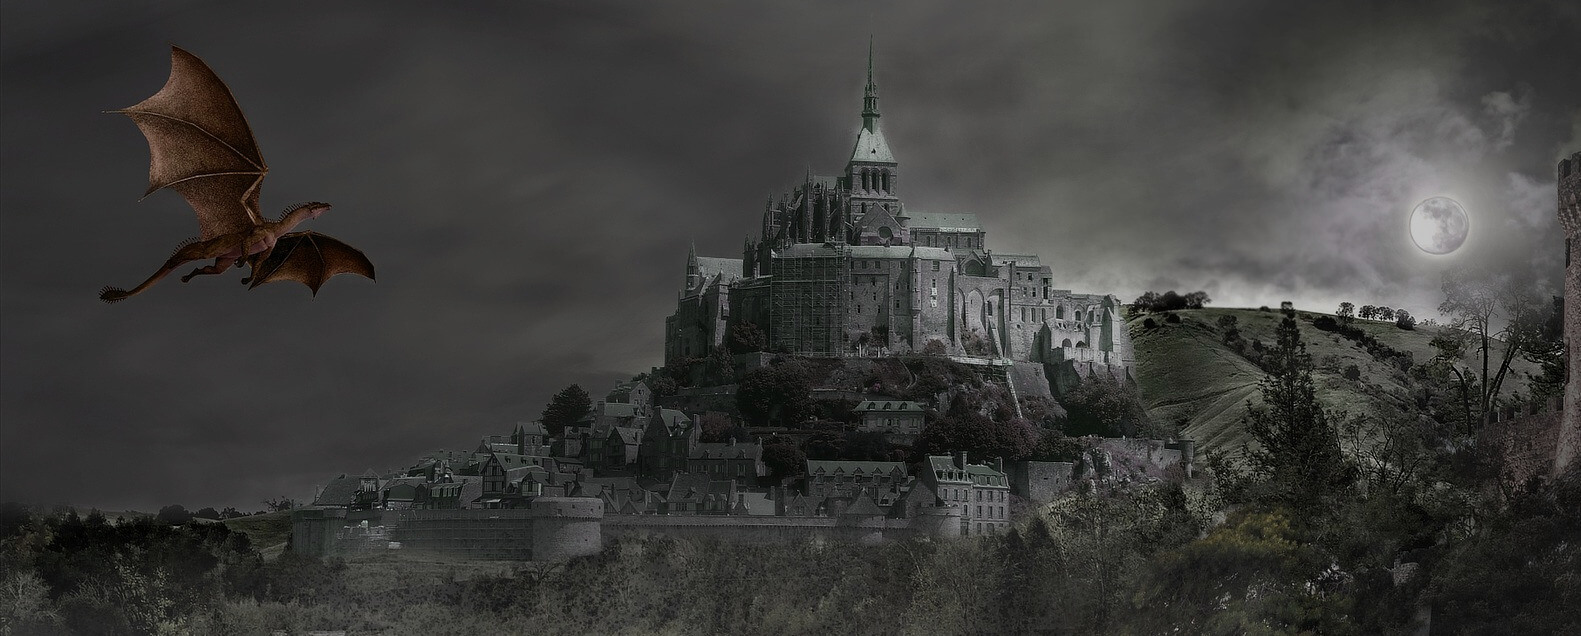
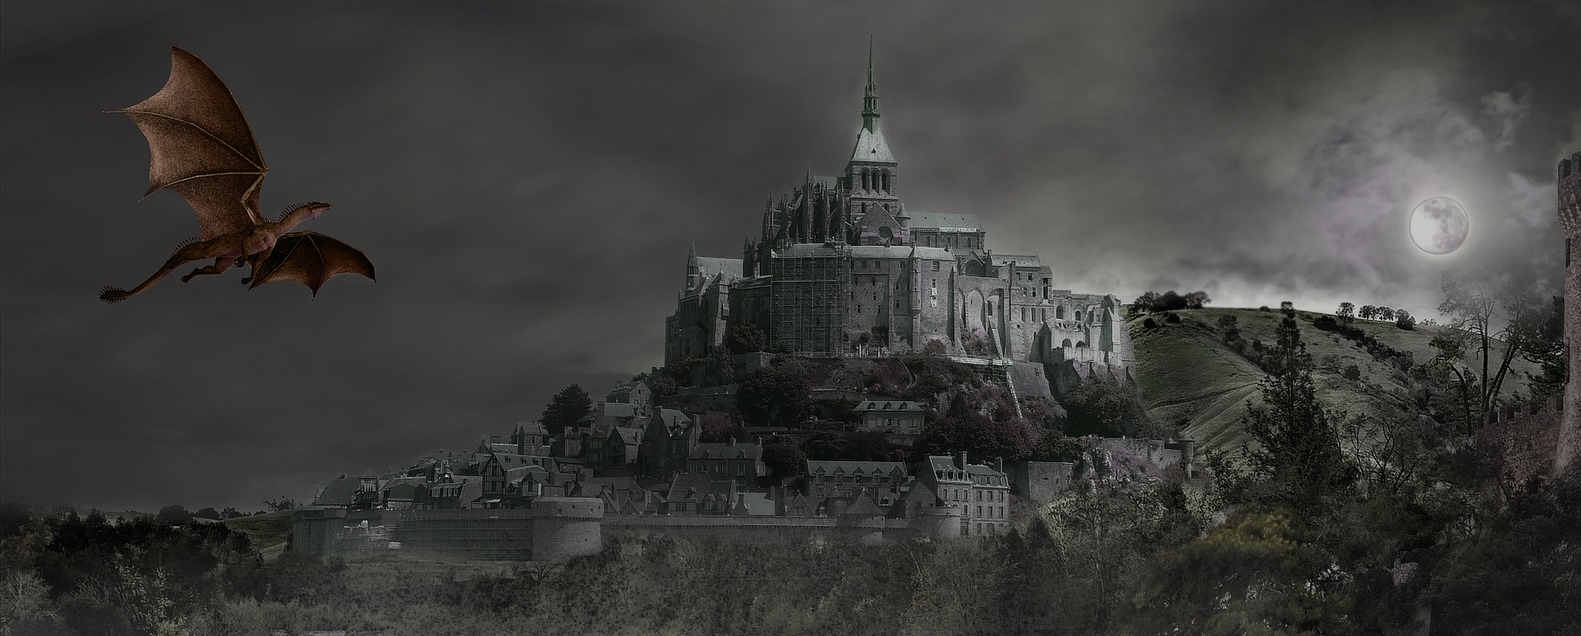
Minify images

diff --git a/client/src/containers/NewEncounter.js b/client/src/containers/NewEncounter.js
@@ -15,7 +15,6 @@ class NewEncounter extends Component {
     }
 
     handleNewEncounter =  async (event) => {
-        const {removeError} = this.props;
         event.preventDefault();
         this.props.postEncounter(this.state);
         this.setState({title:""});

diff --git a/client/public/index.html b/client/public/index.html
@@ -15,7 +15,6 @@
   </head>
   <body>
     <noscript>You need to enable JavaScript to run this app.</noscript>
-    <div id="root"></div>
-    
+    <div id="root"></div>    
   </body>
 </html>
